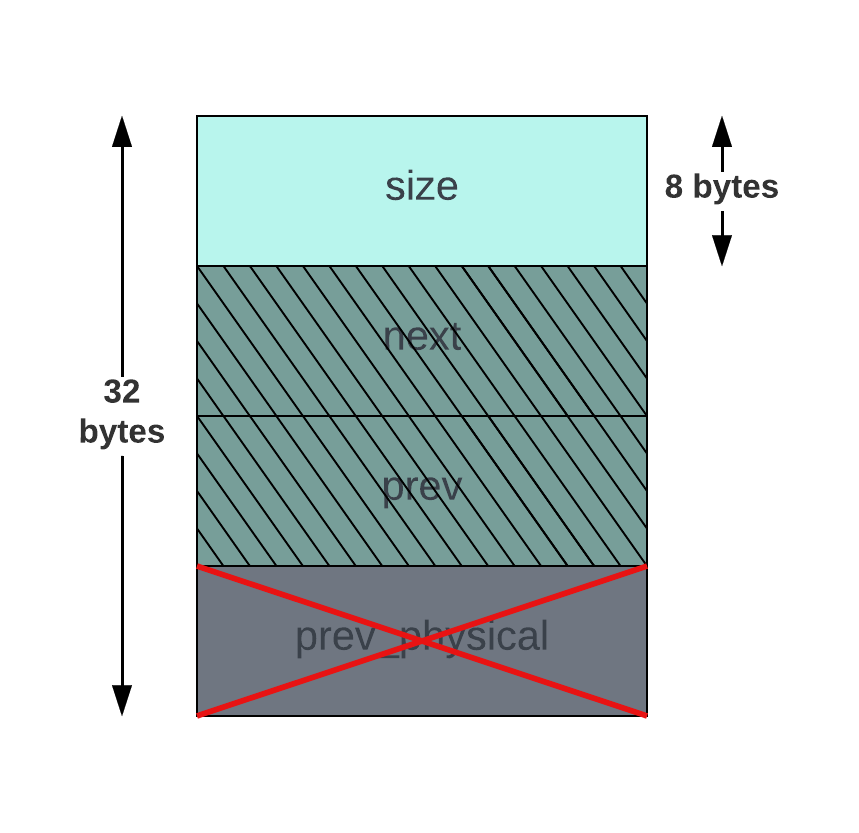
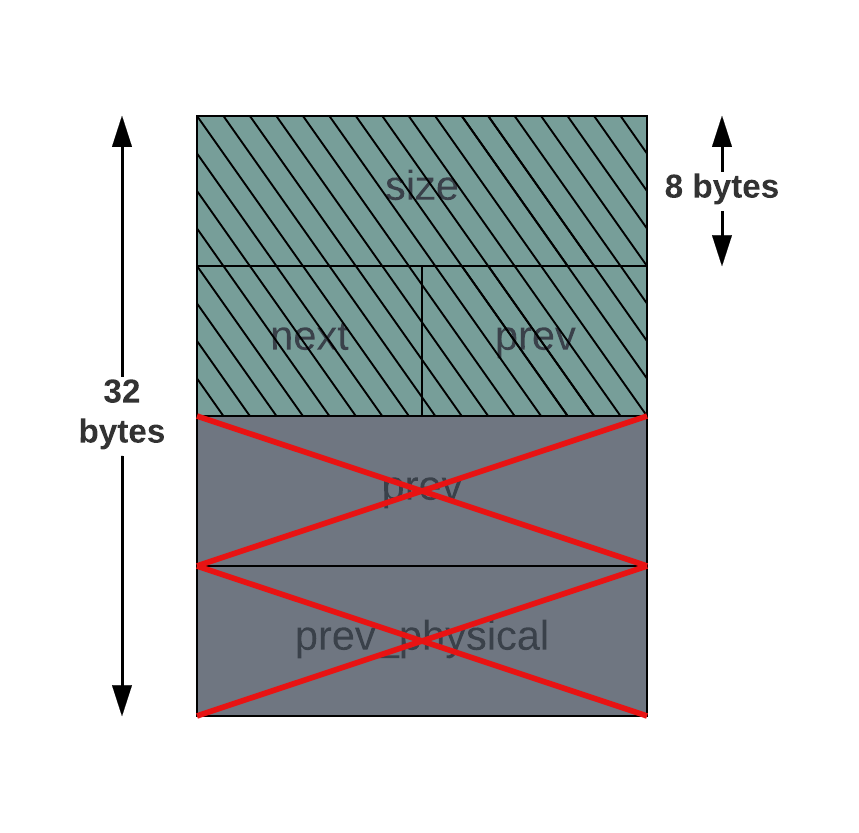
Some re-work of previous adaptations.

diff --git a/text/adaptations.tex b/text/adaptations.tex
@@ -1,19 +1,19 @@
 
-In this section we describe the adaptations that have been made to the reference implementation of TLSF in order to make it more suited toward being used in ZGC.
+In this section we describe the adaptations that have been made to the reference implementation of TLSF to make it more suited toward being used in the context of a garbage collector, specifically ZGC.
 
-\subsection{Architecture}
+\subsection{Architectural Considerations}
 
-In our effort to adapt the allocator for ZGC, which runs exclusively on 64-bit systems, the allocator should also be limited to the same scope. The authors have designed TLSF primarily for 32-bit systems due to it being targeted toward real-time embedded systems, which usually operate on 32-bit architecture. However, it is important to note that while TLSF was initially designed with 32-bit systems in mind, its design principles and concepts are not inherently tied to any specific architecture. Adapting the allocator to 64-bit systems does not require any significant changes in its design, apart from aligning memory toward the allocation unit of 8 bytes for 64-bit systems instead of 4 bytes for 32-bit systems.
+ZGC is solely implemented for 64-bit architecture and does not support 32-bit~\cite{zgc_deep_dive}. Hence, in our effort to adapt the allocator for ZGC, it is reasonable for the allocator to also be limited to the same scope. The authors of TLSF have designed their allocator primarily for 32-bit systems due to it being targeted toward real-time embedded systems, which usually operate on 32-bit architecture. However, while TLSF was initially designed with 32-bit systems in mind, its design principles and concepts are not inherently tied to any specific architecture. Hence, adapting the allocator to 64-bit systems does not require any significant changes in its design, apart from aligning memory toward the allocation unit of 8 bytes for 64-bit systems instead of 4 bytes for 32-bit systems.
 
-\subsection{General and Optimized Allocator}
+\subsection{General and Optimized Versions}
 
-The first and most important adaptation is re-implementing the reference implementation in a configurable manner to allow for the allocator to be extended while still maintaining a general version of it. The reason behind this is to allow using the allocator in an all-purpose manner while also having a version which is optimized for ZGC. Additionally, having both a general and optimized version allows for measuring the efficacy of any adaptation made in the optimized implementation by comparing its performance against the general version.
+When adapting the allocator we will consider the use cases of either using it as a normal allocator in cases where a traditional malloc/free combination is used, or as a way to allocate objects on pages in ZGC. To minimize the codebase, which is desirable from a maintenance perspective, the allocator will be adapted in a way which allows it to be configured for different use-case. A major benefit of doing this is that different configurations can easily be compared against each other, streamlining the process of measuring efficacy of any adaptations that are made.
 
-However, making optimizations might require changes that also changes the general version in such a way that it deviates from the reference implementation. Such trade-offs, which will be discussed in more detail later in this section, could be reasonable when supporting multiple versions of the allocator.
+Worth noting however, is that in the process of redesigning the allocator in a configurable manner, some changes that deviates from the reference implementation will have to be made. Such trade-offs, which will be discussed in more detail later, could be reasonable when extending the interface for supporting multiple configurations, or versions, of the allocator.
 
-\subsection{Allocation Size for Small and Medium Pages}
+\subsection{Reduced Allocation Size Range}
 
-Since small and medium pages only allow the user to allocate in certain size ranges, we can use this to our advantage to store metadata about the allocator in a more efficient way. Small pages allow sizes in the range [16B, 256KB] and medium pages (256KB, 4MB]. We note that the allowed sizes in the medium range is a factor of 16KB larger than the small range. This allows us to limit the allocator to the size range of small page, with an additional multiplication factor of 1 for small pages and 16KB for medium pages.
+In ZGC, small and medium pages only allow the user to allocate in certain size ranges. To our advantage, we can use this to store metadata about the allocator in a more efficient way. Small pages allow sizes in the range [16B, 256KB] and medium pages (256KB, 4MB]. We note that the allowed sizes in the medium range is a factor of 16KB larger than the small range. This allows us to limit the allocator to the size range of small page, with an additional multiplication factor of 1 for small pages and 16KB for medium pages.
 
 With the limited allocation size range for small pages in mind, we are able to limit the number of free-lists we need and in turn the bits used in the bitmaps. We need 14 first-levels to be able to index every power of two inside the small page range, with a lower-bound of $2^4 =$ 16B and an upper-bound of $2^{17} =$ 128KB. It is desirable to store all bitmap information in a single 64-bit word for performance reasons, both in terms of cache efficiency and usage of efficient bit instructions. If we want to stay inside the 64-bit limit, we must choose the number of second-levels accordingly. For efficiency reasons again, the number of second levels should be a power of two~\cite{TLSF} so that bit-shift instructions can be used. The only value this leaves us is 4, which requires $14 * 4 =$ 56 bits for storing all metadata.
 
@@ -21,7 +21,7 @@ Since a page is initially 2MB large, the initial block will be significantly lar
 
 Combining the insight of the number of required first- and second-levels, desire to use a single 64-bit bitmap and large-list, we can construct a new bitmap representation, as shown in Figure~\ref{fig:bitmap_flattening}. The new bitmap disregards the literal notion of ``Two Level'' from Two Level Segregated Fit and flattens the first- and second-level bitmaps to a single bitmap. The new bitmap is indexed using the formula: 
 \[
-    \text{index($f, s$)} = f * 4 + s
+    \text{bitmap\_index($f, s$)} = f * 4 + s
 \]
 where $f$ and $s$ are the first- and second-level indexes respectively. Additionally, the lowest size classes have been placed at the least significant bits of the bitmap to make searching for the next non-empty free-list efficient using the find-first-set bit instruction.
 
@@ -48,13 +48,13 @@ The correlation between the bitmap and the free-lists is depicted in Figure~\ref
 % Benefits: Reduced memory overhead, cache efficiency, Simplified indexing (and Atomic operations??)
 % Drawbacks: Reduce number of second-level partitions to 4, instead of more, which could have an impact on internal fragmentation.
 
-\subsection{Constructing From Livemap Data}
+\subsection{Transitioning Between Different Allocation Strategies}
 
 Completely phasing out the utilization of bump-pointer allocation may not be optimal, especially when there is no constant requirement to allocate solely within the ``holes'' of a page. Instead, users could employ bump-pointer allocation up to a certain point, at which it becomes advantageous to transition to a more sophisticated allocator for non-bump-pointer allocation.
 
 Most allocators start with an unused chunk of memory, allowing them to track and keep an up-to-date record of what the underlying memory contains. However, in the case where transitioning from bump-pointer to using an allocator, the underlying memory have contents that is not represented in the allocator. To solve this, we need to update the allocator's internal representation to align with the contents of the memory. In ZGC, the latest live analysis of a page contains an accurate representation of what data is alive in the page's underlying memory. This information can therefore be used to update the allocator's internal representation after a transition to using an allocator.
 
-The construction of the allocator's representation involves a two-step process that extends the allocator's API. Initially, the representation must be cleared so that any previous data that might be inaccurate is not present. Additionally, when clearing, a block is allocated to cover the entirety of the underlying memory. Subsequently, the user invokes a function to free blocks within specified ranges, allowing to selectively ``carve'' segments free memory from the initially allocated block. When freeing ranges of blocks, we only consider four cases: 
+The construction of the allocator's representation involves a two-step process that extends the optimized allocator's API. Initially, the representation must be cleared so that any previous data is removed. When clearing the allocator, a block is allocated to cover the entirety of the underlying memory. This allows the user to invoke a function to free blocks within specified ranges, allowing to selectively ``carve'' segments free memory from the initially allocated block. When freeing ranges of memory, we only consider four cases: 
 
 \begin{enumerate}
     \item The range is strictly within an allocated block and does not start nor end on the block's edges.
@@ -67,7 +67,7 @@ We will not consider cases where the range overlaps multiple blocks and start or
 
 \subsection{Deferred Coalescing of Blocks}
 
-In the process of allocating and freeing blocks within an allocator, the general preference is to always have as large blocks as possible available to fulfill larger requests. However, in scenarios where numerous small allocations are frequently made and free'd, the emphasis on coalescing blocks to accommodate larger requests in the future may not be worthwhile. Instead, a strategy we call deferred coalescing can be employed.
+In the process of allocating and freeing blocks within an allocator, the general preference is to always have as large blocks as possible available to fulfill larger requests. However, in scenarios where numerous small allocations are frequently made and free'd, the emphasis on coalescing blocks to accommodate larger requests in the future may not be worthwhile. Instead, coalescing of blocks will be deferred until a later point in time or none at all.
 
 The idea behind deferred coalescing is that when the user calls free(), the block being freed is not implicitly attempted to be coalesced with its adjacent physical neighbors. Instead, the allocator's API is extended to include an explicit coalesce operation. This operation scans through all blocks and coalesces as many as possible. Unlike immediate coalescing, this deferred approach postpones the process until a later point when a larger block is required.
 
@@ -89,13 +89,19 @@ next = get\_next\_block(current)\;
 \caption{Algorithm for explicitly coalescing all possible free blocks in the allocator. Note that coalesce\_neighbors() removes both blocks from the free-list before the newly coalesced block is inserted.}
 \end{algorithm}
 
+\subsubsection{Disregarding Size for Allocated Blocks}
+
 \subsubsection{Block Header Adjustments}
 
-Being able to construct the allocator from livemap data moves the emphasis on calling the free() method of the allocator to calling free\_range() instead. However, in cases when calling free() is still desirable, it is beneficial from a performance standpoint to not coalesce blocks immediately. Combining both of these insights, we can observe that storing a pointer to the previous physical block is no longer needed. This is becuase the previous physical pointer is only used when calling free and coalescing blocks with their physical neighbors. Following this, we will redesign the header for it to be removed in the optimized version and still kept in the general version. Furthermore, R. Jones et al~\cite[Page 103]{gchandbook} discuss that removing parts of the block header from an allocator in the context of garbage collection is a reasonable optimization approach.
+R. Jones et al~\cite[Page 103]{gchandbook} discuss that in the context of using allocators in garbage collectors, it is a reasonable approach to remove certain parts of the so called boundary tag, or block header for TLSF. This is because a garbage collector know significantly more about the memory being processed than what a traditional system using a general purpose memory allocator does. This allows us to, for example, defer coalescing by default, transition between different allocators and optimize the bitmap layout from knowing what sizes will be allocated beforehand.
+
+Combining the insights from the adaptations made so far, we can observe that storing a pointer to the previous physical block is no longer needed in the optimized version. This is because the previous physical pointer is only used when calling free and coalescing blocks with their physical neighbors. Following this, we will redesign the header for the previous physical pointer to be removed in the optimized version and still kept in the general version. 
 
 % TODO: Disadventageous for small allocations, will have to be measured in practice.
 
-The block header, as implemented in the reference implementation, is shown in Figure~\ref{fig:blockheader_adap_reference}. Here, the next and prev pointers are stored in the unused parts of free blocks and are unused in allocated blocks. In contrast, Figure~\ref{fig:blockheader_adap_general} shows the adapted block header for the general version of the allocator. In this version, all four fields are used for both free and allocated blocks since the previous physical pointer has been rearranged to the end of the header. Rearranging the previous physical pointer allows us to get the block header for optimized blocks, as shown in Figure~\ref{fig:blockheader_adap_optimized}. In the optimized header, the only constant overhead is the size field, as the next and prev pointers are only used in the unused parts of free blocks, as in the reference implementation. Additionally, the previous physical pointer is completely ignored in the optimized header.
+The block header, as used in the reference implementation, is shown in Figure~\ref{fig:blockheader_adap_reference}. Here, the next and prev pointers are stored in the unused parts of free blocks and are unused in allocated blocks. In contrast, Figure~\ref{fig:blockheader_adap_general} shows the adapted block header for the general version of the allocator. In this version, all four fields are used for both free and allocated blocks since the previous physical pointer has been rearranged to the end of the header. Rearranging the previous physical pointer allows us to get the block header for optimized blocks, as shown in Figure~\ref{fig:blockheader_adap_optimized}. In the optimized header, the next and prev pointers have been converted to offsets, allowing them to be 32-bits each. Additionally, both the size and the now next/prev offsets are only stored in the unused parts of free blocks, allowing for a 0-byte header for allocated blocks.
+
+% In the optimized header, the only constant overhead is the size field, as the next and prev pointers are only used in the unused parts of free blocks, as in the reference implementation. Additionally, the previous physical pointer is completely ignored in the optimized header.
 
 \begin{figure}[H]
     \centering
@@ -123,7 +129,7 @@ The block header, as implemented in the reference implementation, is shown in Fi
     \label{fig:blockheader_adaptations}
 \end{figure}
 
-The goal of changing the header is to reduce the constant block header overhead required when allocating blocks. This is especially important when allocating mainly small objects, where the block overhead is impactful. With the new design for the block header, the constant block header overhead for the optimized version is reduced to only 8 bytes for storing the size of the block. However, reducing the overhead for optimized headers has required us to instead increase the overhead for the general version.
+The goal of changing the header is to reduce the constant block header overhead required when allocating blocks. This is especially important when most allocations are small, where the block overhead is most significant. With the new design for the block header, the constant block header overhead for the optimized version is reduced to only 8 bytes for storing the size of the block. However, reducing the overhead for optimized headers has required us to instead increase the overhead for the general version.
 
 % Block sizes can be stored in much less than 64 bits, but due to alignment etc it is reasonable to use a 64-bit value to store the size anyways.
 

diff --git a/text/tlsf.tex b/text/tlsf.tex
@@ -19,7 +19,7 @@ Allocations inside TLSF are managed using blocks. Blocks are managed using two d
 
 \subsubsection{Allocation and Freeing Strategy}
 
-While from the user's perspective, TLSF behaves similarly to familiar memory allocation and deallocation functions like malloc/free in libc~\cite{libc_malloc_free}, its distinctive characteristics lie in its internal mechanisms, which will be discussed next.
+While from the user's perspective, TLSF behaves similarly to familiar memory allocation and deallocation functions like malloc/free in libc\footnote{See the Linux Programmer's Manual for more information on `malloc()` and `free()`. Accessed online at: \url{https://man7.org/linux/man-pages/man3/malloc.3.html}}, its distinctive characteristics lie in its internal mechanisms, which will be discussed next.
 
 When a user requests N bytes from the allocator, the allocator aligns N to meet any necessary alignment requirements and applies padding. Subsequently, it searches for a block matching the desired size. If no block within the specific size range is found, the allocator continues its search to identify a larger block. If no block is found, a NULL value is returned. However, if a list containing blocks is found, the allocator picks the first block in the list, regardless of the number of blocks in it. The policy of searching for free-lists and choosing the first block is called Good-Fit by the authors, referred to as a combination of best- and first-fit. This policy was chosen since it performs well in terms of fragmentation. Moreover, if a block larger than the requested size is located, the allocator splits it into two blocks. One block is used to satisfy the request to the user, and the other is inserted back into the allocator.
 

diff --git a/main.tex b/main.tex
@@ -160,7 +160,7 @@ Juni 2024
 \input{text/related-work}
 
 \newpage
-\section{Adapting TLSF for ZGC Page Allocation}
+\section{Adaptations of the TLSF Memory Allocator}
 \label{sec:adaptations}
 \input{text/adaptations}
 
